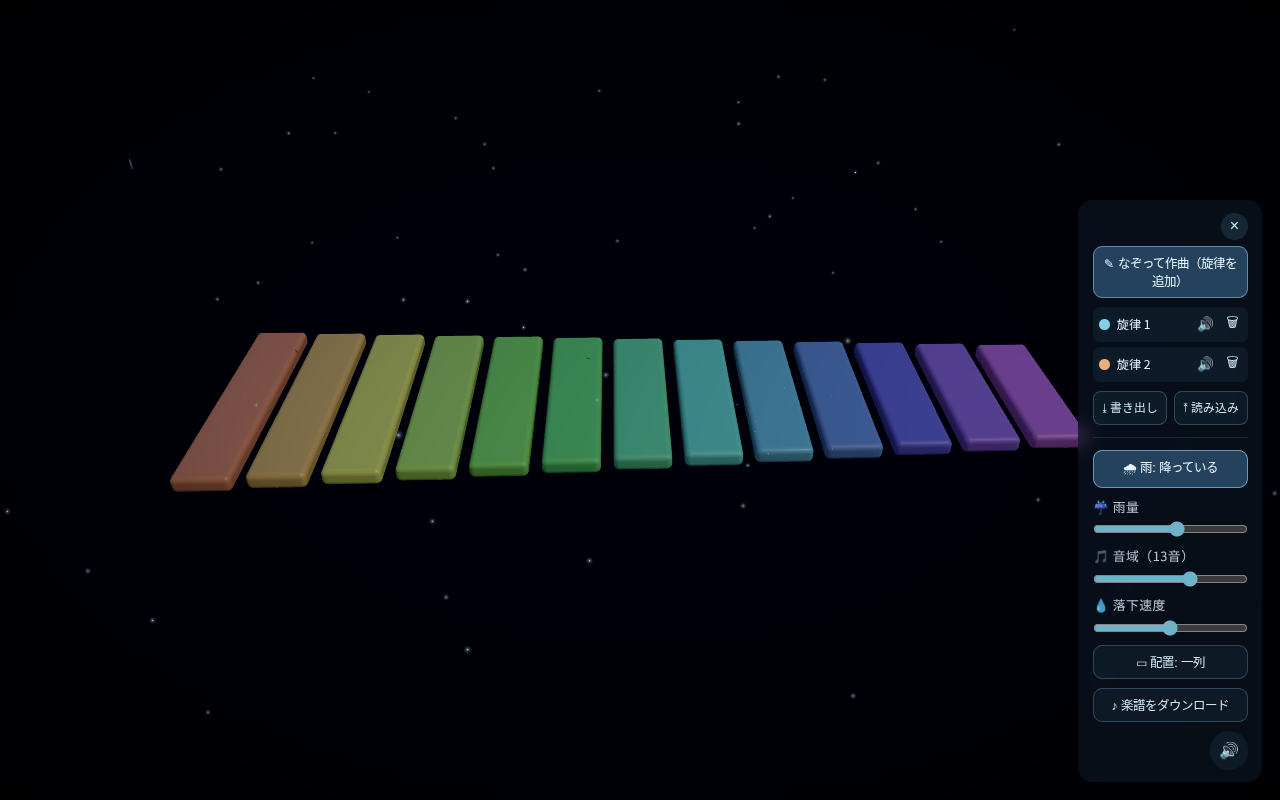
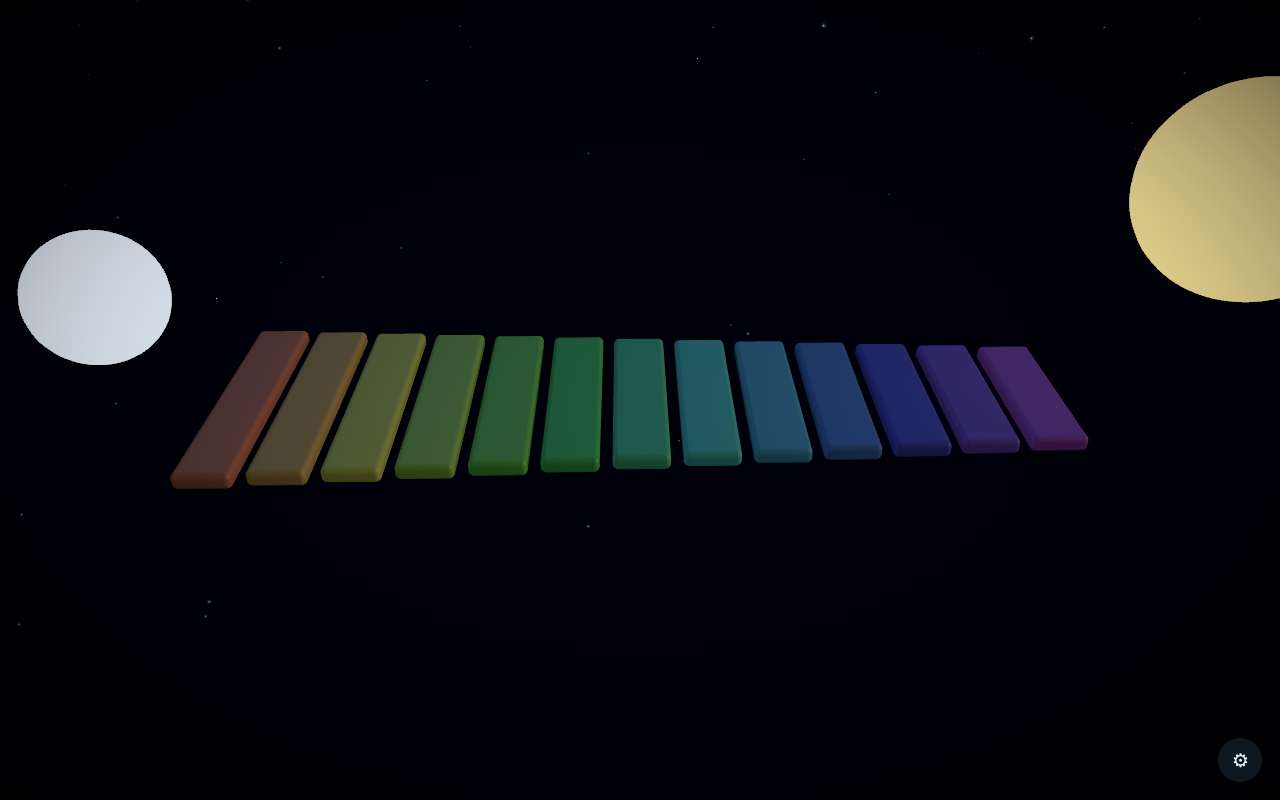
feat: 音板を中心に太陽と月が周回(ライト追従)／流れ星をTrailで長く煌びやかに／光の粒を全画面・多めに／ランダム雨をデフォルトOFF

Changed region(s): [[0.125, 0.0938, 1.0, 0.9688], [0.0, 0.2812, 0.1562, 0.4688]]

diff --git a/src/scene/ShootingStars.tsx b/src/scene/ShootingStars.tsx
@@ -1,0 +1,88 @@
+import { useRef, useState } from 'react'
+import { useFrame } from '@react-three/fiber'
+import { Trail } from '@react-three/drei'
+import { AdditiveBlending, Vector3, type Mesh, type MeshBasicMaterial } from 'three'
+
+type StarSpec = {
+  id: number
+  start: [number, number, number]
+  vel: Vector3
+}
+
+const randRange = (a: number, b: number) => a + Math.random() * (b - a)
+const LIFETIME = 2.0
+
+/** ランダムな間隔で夜空を流れる、きらびやかな流れ星（長い軌跡つき）。 */
+export function ShootingStars() {
+  const [stars, setStars] = useState<StarSpec[]>([])
+  const timer = useRef(randRange(2, 4))
+  const nextId = useRef(0)
+
+  useFrame((_, delta) => {
+    timer.current -= delta
+    if (timer.current <= 0) {
+      timer.current = randRange(3.5, 9) // 次の流れ星まで
+      const id = nextId.current++
+      const fromLeft = Math.random() < 0.5
+      const startX = fromLeft ? randRange(-16, -9) : randRange(9, 16)
+      const start: [number, number, number] = [startX, randRange(8, 15), randRange(-12, 3)]
+      const speed = randRange(10, 15) // ゆっくりめ＝軌跡が長く見える
+      const dir = new Vector3(fromLeft ? 1 : -1, randRange(-0.4, -0.18), randRange(-0.08, 0.08)).normalize()
+      setStars((prev) => [...prev, { id, start, vel: dir.multiplyScalar(speed) }])
+    }
+  })
+
+  const remove = (id: number) => setStars((prev) => prev.filter((s) => s.id !== id))
+
+  return (
+    <>
+      {stars.map((s) => (
+        <ShootingStar key={s.id} spec={s} onDone={remove} />
+      ))}
+    </>
+  )
+}
+
+function ShootingStar({ spec, onDone }: { spec: StarSpec; onDone: (id: number) => void }) {
+  const head = useRef<Mesh>(null)
+  const age = useRef(0)
+
+  useFrame((_, delta) => {
+    const m = head.current
+    if (!m) return
+    age.current += delta
+    const t = age.current / LIFETIME
+    if (t >= 1) {
+      onDone(spec.id)
+      return
+    }
+    m.position.addScaledVector(spec.vel, delta)
+    // 出現〜消滅でなめらかに明滅（中盤が最も明るい）。
+    const glow = Math.sin(Math.min(1, t * 1.15) * Math.PI)
+    const mat = m.material as MeshBasicMaterial
+    mat.opacity = glow
+    const s = 0.06 + glow * 0.06
+    m.scale.setScalar(s)
+  })
+
+  return (
+    <Trail
+      width={3.5}
+      length={9}
+      color={'#dff2ff'}
+      decay={1}
+      attenuation={(w) => w * w}
+    >
+      <mesh ref={head} position={[...spec.start]}>
+        <sphereGeometry args={[1, 12, 12]} />
+        <meshBasicMaterial
+          color="#ffffff"
+          transparent
+          opacity={0}
+          toneMapped={false}
+          blending={AdditiveBlending}
+        />
+      </mesh>
+    </Trail>
+  )
+}

diff --git a/src/scene/Celestial.tsx b/src/scene/Celestial.tsx
@@ -1,0 +1,76 @@
+import { useRef } from 'react'
+import { useFrame } from '@react-three/fiber'
+import type { DirectionalLight, Mesh } from 'three'
+import { POND_HALF } from '../config'
+import { quality } from '../util/quality'
+
+/**
+ * 音板（原点）を中心に、太陽と月が周回する。常に反対側の位相。
+ * ディレクショナルライトは太陽に追従し、太陽が高いほど明るい（昼夜のうつろい）。
+ */
+const ORBIT_R = 8.5
+const ORBIT_SPEED = 0.06 // rad/sec（ゆっくり）
+const TILT = 0.5 // 軌道面の傾き（奥行きを持たせて周回が分かるように）
+
+export function Celestial() {
+  const sun = useRef<Mesh>(null)
+  const moon = useRef<Mesh>(null)
+  const light = useRef<DirectionalLight>(null)
+
+  useFrame((state) => {
+    const a = state.clock.elapsedTime * ORBIT_SPEED
+    const cz = Math.sin(TILT)
+    const cy = Math.cos(TILT)
+
+    const sy = Math.sin(a) * ORBIT_R * cy
+    const sx = Math.cos(a) * ORBIT_R
+    const sz = Math.sin(a) * ORBIT_R * cz - 4
+    if (sun.current) sun.current.position.set(sx, sy, sz)
+
+    const my = Math.sin(a + Math.PI) * ORBIT_R * cy
+    const mx = Math.cos(a + Math.PI) * ORBIT_R
+    const mz = Math.sin(a + Math.PI) * ORBIT_R * cz - 4
+    if (moon.current) moon.current.position.set(mx, my, mz)
+
+    if (light.current) {
+      // 太陽が上なら太陽光、沈んでいる間は月明かり側から弱く。
+      const sunUp = sy > 0
+      const lx = sunUp ? sx : mx
+      const lyRaw = sunUp ? sy : my
+      light.current.position.set(lx, Math.max(3, lyRaw), (sunUp ? sz : mz) + 4)
+      const h = Math.max(0, sy / ORBIT_R) // 0..1
+      light.current.intensity = 0.35 + h * 0.95
+      light.current.color.setHex(sunUp ? 0xfff1d6 : 0xbfd0ff)
+    }
+  })
+
+  return (
+    <>
+      <directionalLight
+        ref={light}
+        position={[5, 9, 4]}
+        intensity={1.1}
+        castShadow={quality.shadows}
+        shadow-mapSize-width={2048}
+        shadow-mapSize-height={2048}
+        shadow-bias={-0.0004}
+        shadow-camera-left={-POND_HALF}
+        shadow-camera-right={POND_HALF}
+        shadow-camera-top={POND_HALF}
+        shadow-camera-bottom={-POND_HALF}
+      />
+
+      {/* 太陽 */}
+      <mesh ref={sun}>
+        <sphereGeometry args={[1.5, 32, 32]} />
+        <meshBasicMaterial color="#ffeaa0" toneMapped={false} />
+      </mesh>
+
+      {/* 月 */}
+      <mesh ref={moon}>
+        <sphereGeometry args={[1.05, 32, 32]} />
+        <meshBasicMaterial color="#eaf3ff" toneMapped={false} />
+      </mesh>
+    </>
+  )
+}

diff --git a/src/scene/Scene.tsx b/src/scene/Scene.tsx
@@ -1,9 +1,10 @@
 import { Canvas } from '@react-three/fiber'
 import { Environment, Lightformer, OrbitControls, Sparkles } from '@react-three/drei'
 import { ACESFilmicToneMapping } from 'three'
-import { POND_HALF } from '../config'
 import { isMobile, quality } from '../util/quality'
 import { RainSystem } from './RainSystem'
+import { ShootingStars } from './ShootingStars'
+import { Celestial } from './Celestial'
 import { Effects } from './Effects'
 
 /**
@@ -24,18 +25,8 @@ export function Scene() {
       <fog attach="fog" args={['#0a131d', 13, 30]} />
 
       <ambientLight intensity={0.35} />
-      <directionalLight
-        position={[5, 9, 4]}
-        intensity={1.1}
-        castShadow={quality.shadows}
-        shadow-mapSize-width={2048}
-        shadow-mapSize-height={2048}
-        shadow-bias={-0.0004}
-        shadow-camera-left={-POND_HALF}
-        shadow-camera-right={POND_HALF}
-        shadow-camera-top={POND_HALF}
-        shadow-camera-bottom={-POND_HALF}
-      />
+      {/* 音板を中心に周回する太陽と月＋追従するディレクショナルライト。 */}
+      <Celestial />
 
       {/* オフラインでも効く環境マップ。金属の水面/バーへ柔らかな映り込みを与える。 */}
       <Environment resolution={256}>
@@ -47,24 +38,21 @@ export function Scene() {
         <Lightformer intensity={0.5} position={[5, 2, 2]} scale={[3, 3, 1]} color="#ffe39a" />
       </Environment>
 
-      {/* 空高くに浮かぶ月（Bloom で柔らかく光る）。 */}
-      <mesh position={[7, 13, -14]}>
-        <sphereGeometry args={[0.82, 32, 32]} />
-        <meshBasicMaterial color="#eaf3ff" toneMapped={false} />
-      </mesh>
-
       <RainSystem />
 
-      {/* 水面の上に漂う微かな霧の粒子。premium な空気感を足す。 */}
+      {/* 画面全体に漂う光の粒子。視界を大きく覆う体積に広げる。 */}
       <Sparkles
         count={quality.sparkles}
-        scale={[POND_HALF * 2, 3.5, POND_HALF * 2]}
-        position={[0, 1.4, 0]}
-        size={2.4}
+        scale={[42, 30, 42]}
+        position={[0, 8, -2]}
+        size={2.6}
         speed={0.25}
-        opacity={0.45}
+        opacity={0.5}
         color="#bfe9ff"
       />
+
+      {/* ランダムなタイミングで流れる流れ星。 */}
+      <ShootingStars />
 
       <OrbitControls
         enablePan={false}

diff --git a/src/state/settings.ts b/src/state/settings.ts
@@ -8,8 +8,8 @@ export type BarShape = 'row' | 'circle'
 export const settings = {
   /** 雨量 0..1（スライダー）。0 で雨が止む。 */
   rain: 0.55,
-  /** 雨を降らせるか（停止トグル）。false で雨量に関わらず止まる。 */
-  rainOn: true,
+  /** 雨を降らせるか（停止トグル）。既定は OFF（なぞって作曲が主役。雨はトグルで足せる）。 */
+  rainOn: false,
   /** 音域の幅 0..1（スライダー）。小さいほど本数が少なく狭い音域。 */
   rangeLevel: 0.64,
   /** 落下速度 0..1（スライダー）。小さいほどゆっくり落ちる。 */

diff --git a/src/util/quality.ts b/src/util/quality.ts
@@ -19,8 +19,8 @@ export const quality = {
   simRes: isMobile ? 128 : 256,
   /** 水面メッシュの分割数。 */
   waterSegments: isMobile ? 96 : 200,
-  /** 霧の粒子数。 */
-  sparkles: isMobile ? 24 : 60,
+  /** 光の粒子数（画面全体を覆うので多め）。 */
+  sparkles: isMobile ? 180 : 460,
   /** 影を落とすか（影は重いのでスマホは無効）。 */
   shadows: !isMobile,
   /** 後処理のマルチサンプリング。 */